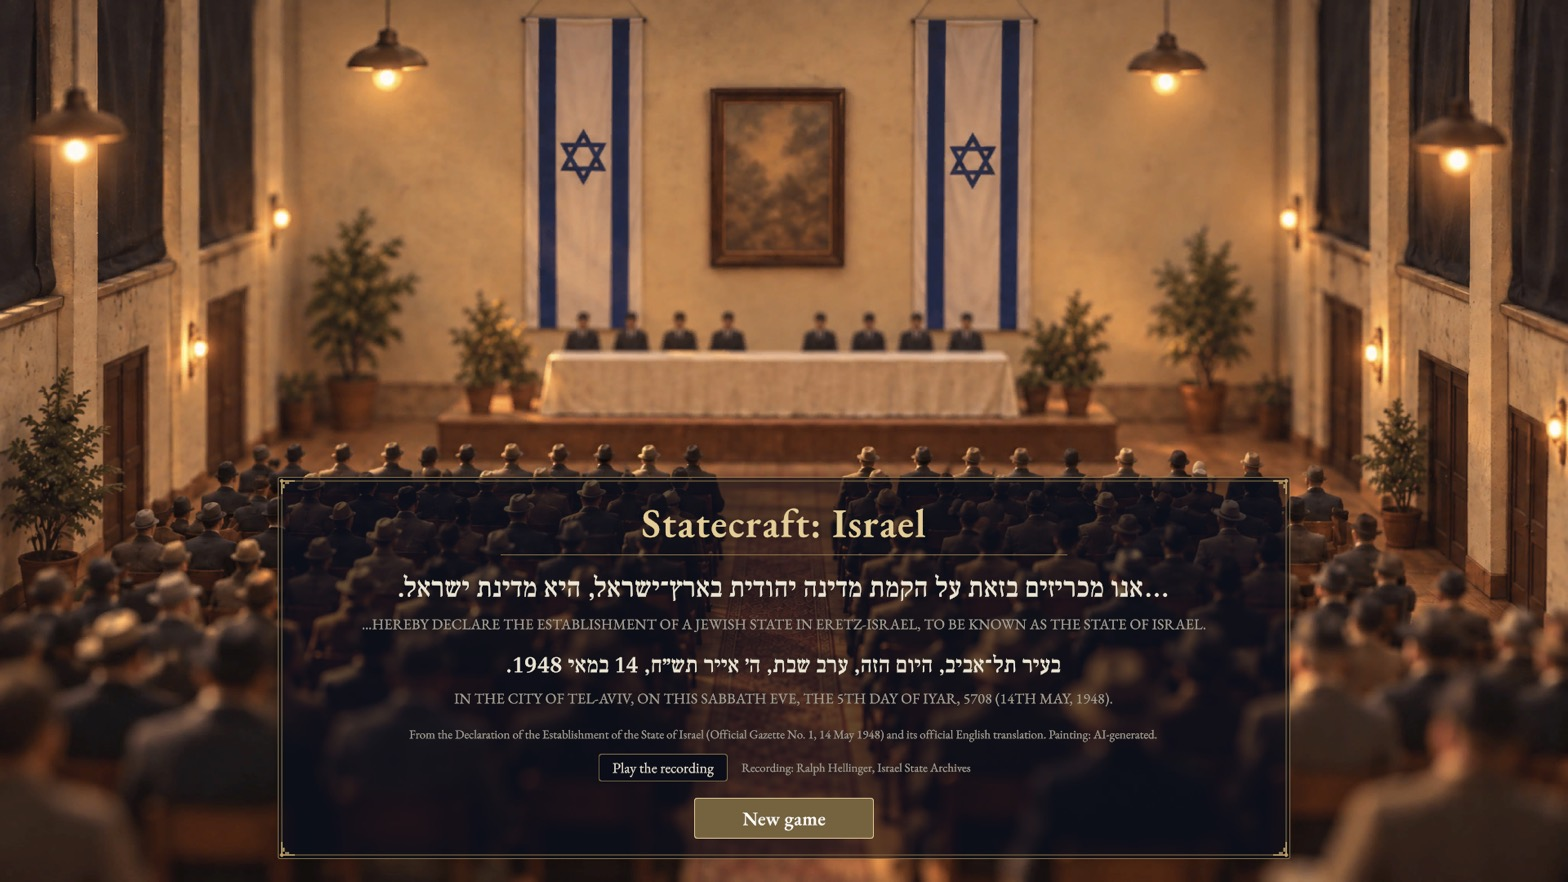
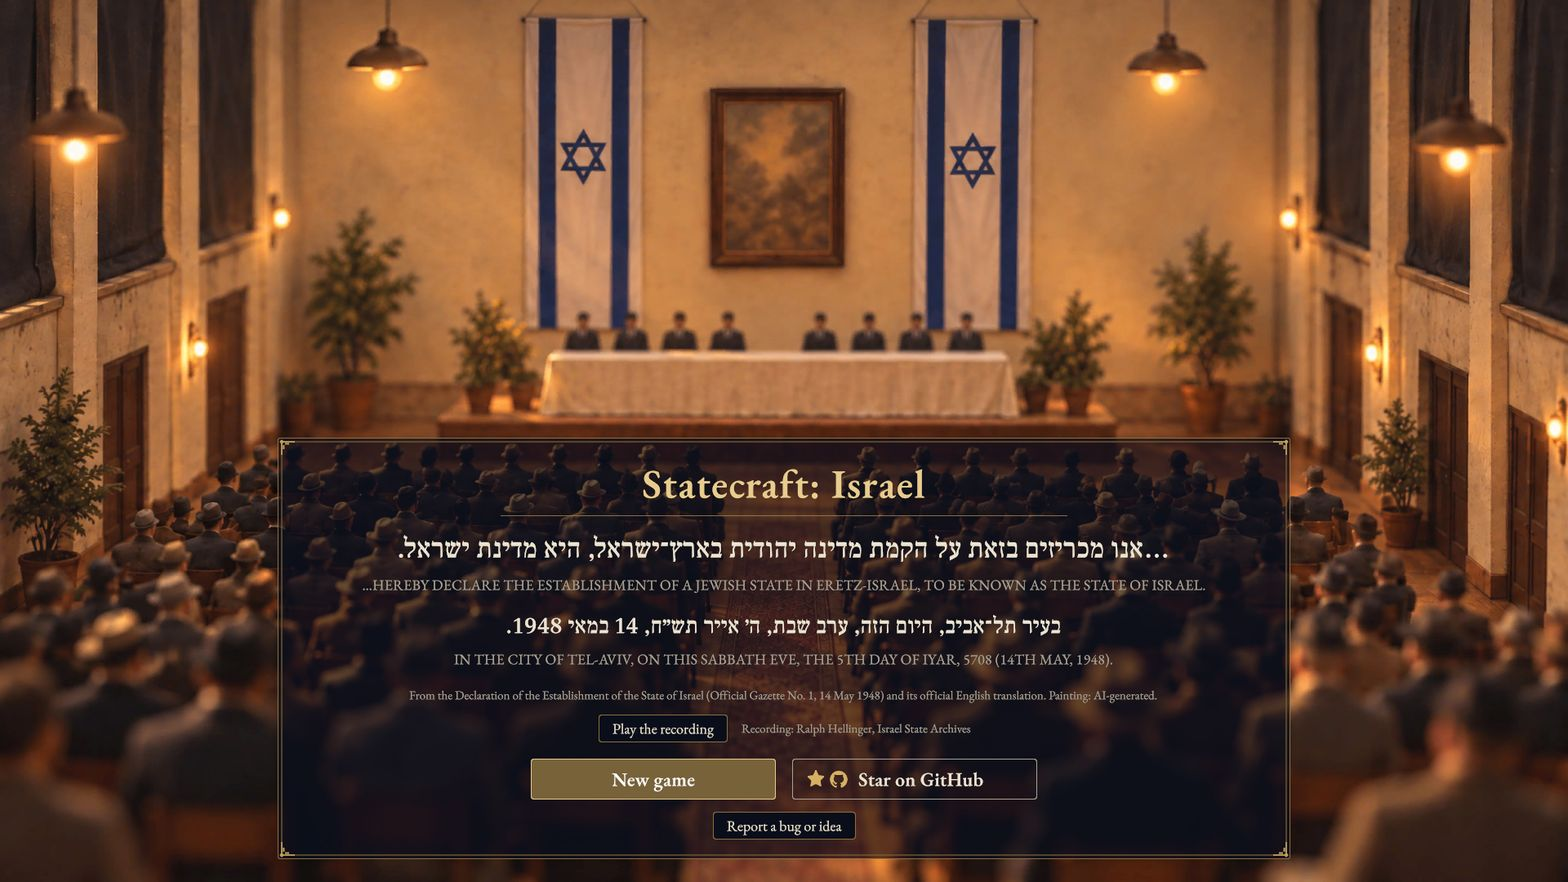
README: screenshots of main 1dca7e0 and the text matches v0.3.1
The owner asked to make sure the README on main and its screenshots are
up to date.

- Screenshots: build-m3-map, -city, -cabinet, -start, -why and build-he-map
  retaken from a WebGL build of main at 1dca7e0 (2026-10-27), same game
  state, camera and zoom as #1200. The start screen changed since 6c54c95
  (Star on GitHub, Report a bug or idea). The gameplay clip is kept: End
  turn now selects units that need orders, so the 8dae186 flow cannot be
  recorded the same way.
- Text: the latest release is v0.3.1 (not a pre-release); the capture
  dialog (Raid and withdraw or Occupy, then Annex or Withdraw) is in; the
  advisors replace the first-turn guide; the war objective is still out;
  Phase 5 is 13 of 18 and Phase 6 7 of 12 closed task issues.

Changed region(s): [[0.1562, 0.4898, 0.8438, 0.9796]]

diff --git a/README.he.md b/README.he.md
@@ -29,7 +29,7 @@ https://github.com/user-attachments/assets/56571db8-446b-444b-8db9-fce57dac53a7
 <img src="docs/images/build-m3-map.jpg" width="820" alt="הגרסה הנוכחית: כרטיס האירוע &quot;צבא אחד&quot; עם צילום ארכיון, מעל מפת החוף, עם הסרגל העליון והמפה הקטנה.">
 <br>
 <img src="docs/images/build-m3-start.jpg" width="405" alt="הגרסה הנוכחית: מסך הפתיחה עם שתי שורות ממגילת העצמאות, על רקע ציור שנוצר בבינה מלאכותית.">
-<img src="docs/images/build-m3-city.jpg" width="405" alt="הגרסה הנוכחית: מבט קרוב על תל אביב, יפו, לוד, רמלה ורחובות, ולוח העיר של תל אביב עם הדיור, התעסוקה והאימון.">
+<img src="docs/images/build-m3-city.jpg" width="405" alt="הגרסה הנוכחית: מבט קרוב על תל אביב, יפו, לוד, פתח תקווה וראשון לציון, ולוח העיר של תל אביב עם הדיור, התעסוקה והאימון.">
 <br>
 <img src="docs/images/build-m3-cabinet.jpg" width="405" alt="הגרסה הנוכחית: מסך הקבינט.">
 <img src="docs/images/build-m3-why.jpg" width="405" alt="הגרסה הנוכחית: לוח 'למה זה קרה?' אחרי התור הראשון.">
@@ -38,7 +38,7 @@ https://github.com/user-attachments/assets/56571db8-446b-444b-8db9-fce57dac53a7
 
 <div dir="rtl">
 
-<p align="center"><em>צילומי מסך אמיתיים, main בקומיט <span dir="ltr">8dae186</span>, 2026-10-20; מסך הפתיחה, שלא השתנה מאז, main בקומיט <span dir="ltr">6c54c95</span>, 2026-10-18. הציור במסך הפתיחה נוצר בבינה מלאכותית.</em></p>
+<p align="center"><em>צילומי מסך אמיתיים, main בקומיט <span dir="ltr">1dca7e0</span>, 2026-10-27. הציור במסך הפתיחה נוצר בבינה מלאכותית.</em></p>
 
 </div>
 
@@ -57,9 +57,9 @@ https://github.com/user-attachments/assets/56571db8-446b-444b-8db9-fce57dac53a7
 
 ## מה המצב היום?
 
-***אב־טיפוס מוקדם: אבן הדרך M3 הושלמה, והשנים 1948 עד 1951 ניתנות למשחק כשבונים מקוד המקור.*** אפשר לשחק בדפדפן ב־[itch.io](https://eyalgolan.itch.io/statecraft-israel). בכל [הפצה](https://github.com/eyalgolan/statecraft-israel/releases) יש קובץ zip של גרסת הדפדפן (האחרונה היא [v0.2.1](https://github.com/eyalgolan/statecraft-israel/releases/tag/v0.2.1), גרסת טרום־הפצה); איך מריצים אותו כתוב ב־[<span dir="ltr">docs/m3-release.md</span>](docs/m3-release.md) (באנגלית). המשחק זמין באנגלית ובעברית, ובהגדרות אפשר לעבור בין השפות; כרטיסי האירועים בעברית עוד ממתינים לבדיקה של דובר עברית. הוראות ההרצה המקומית (באנגלית): [<span dir="ltr">BUILDING.md</span>](BUILDING.md). הבנייה דורשת Unity בגרסה 6000.3.25f1.
+***אב־טיפוס מוקדם: אבן הדרך M3 הושלמה, והשנים 1948 עד 1951 ניתנות למשחק כשבונים מקוד המקור.*** אפשר לשחק בדפדפן ב־[itch.io](https://eyalgolan.itch.io/statecraft-israel). בכל [הפצה](https://github.com/eyalgolan/statecraft-israel/releases) יש קובץ zip של גרסת הדפדפן (האחרונה היא [v0.3.1](https://github.com/eyalgolan/statecraft-israel/releases/tag/v0.3.1)); איך מריצים אותו כתוב ב־[<span dir="ltr">docs/m3-release.md</span>](docs/m3-release.md) (באנגלית). המשחק זמין באנגלית ובעברית, ובהגדרות אפשר לעבור בין השפות; כרטיסי האירועים בעברית עוד ממתינים לבדיקה של דובר עברית. הוראות ההרצה המקומית (באנגלית): [<span dir="ltr">BUILDING.md</span>](BUILDING.md). הבנייה דורשת Unity בגרסה 6000.3.25f1.
 
-מסמך התכנון המחייב הוא עכשיו [<span dir="ltr">docs/GDD.md</span>](docs/GDD.md) (גרסה 0.2, 17 באוקטובר 2026, באנגלית): תורות של חודש, שבהם בונים ומגינים על ישראל בשנים 1948 עד 1951 בעזרת יחידות, ערים ובנייה, ובוחרים שרים. המשחק שאפשר לשחק היום הוא המשחק שמתואר למעלה. התורות החודשיים, תשומת הלב, הערים, האימון, הבנייה בידי החלוצים והפקודות ליחידות, כולל התקפה, כבר בפנים. השליטה ביישובים נכנסה רק בחלקה: היחידות שלכם יכולות לכבוש עיר יעד, אבל הבחירה מה יקרה בה אחר כך עוד לא ניתנת למשחק, ולכן בסוף המשחק כיבוש נחשב לפשיטה ונסיגה (Raid and withdraw). [תוכנית הבנייה](docs/superpowers/specs/2026-10-12-gdd-v0.1-impact-and-plan.md) מכניסה את השאר בשלבים.
+מסמך התכנון המחייב הוא עכשיו [<span dir="ltr">docs/GDD.md</span>](docs/GDD.md) (גרסה 0.2, 17 באוקטובר 2026, באנגלית): תורות של חודש, שבהם בונים ומגינים על ישראל בשנים 1948 עד 1951 בעזרת יחידות, ערים ובנייה, ובוחרים שרים. המשחק שאפשר לשחק היום הוא המשחק שמתואר למעלה. התורות החודשיים, תשומת הלב, הערים, האימון, הבנייה בידי החלוצים והפקודות ליחידות, כולל התקפה, כבר בפנים. השליטה ביישובים נכנסה רק בחלקה: היחידות שלכם יכולות לכבוש עיר יעד, ואז מופיע חלון שמציע פשיטה ונסיגה או שחרור; בסוף תקופת השחרור בוחרים בין סיפוח לנסיגה. [תוכנית הבנייה](docs/superpowers/specs/2026-10-12-gdd-v0.1-impact-and-plan.md) מכניסה את השאר בשלבים.
 
 ## מפת דרכים
 
@@ -89,8 +89,8 @@ flowchart RL
 | 2 | תורות חודשיים במשחק האמיתי, וחמשת המשאבים | בתהליך: הכול מלבד הסרגל העליון של חמשת המשאבים | [#382](https://github.com/eyalgolan/statecraft-israel/issues/382) |
 | 3 | כל הערים, עם דיור, תעסוקה וקליטת עלייה | הושלם: 8 מתוך 8 PRs מוזגו | [#383](https://github.com/eyalgolan/statecraft-israel/issues/383) |
 | 4 | חלוצים, אתרי בנייה, כבישים ומסילות ברזל | בתהליך: 6 מתוך 8 PRs מוזגו | [#384](https://github.com/eyalgolan/statecraft-israel/issues/384) |
-| 5 | יחידות צבאיות, תנועה וקרב | בתהליך: 8 מתוך 18 PRs מוזגו | [#385](https://github.com/eyalgolan/statecraft-israel/issues/385) |
-| 6 | שליטה ביישובים, לפי [מדיניות התוכן](docs/CONTENT_POLICY.md) | בתהליך: 5 מתוך 12 PRs מוזגו | [#386](https://github.com/eyalgolan/statecraft-israel/issues/386) |
+| 5 | יחידות צבאיות, תנועה וקרב | בתהליך: 13 מתוך 18 PRs מוזגו | [#385](https://github.com/eyalgolan/statecraft-israel/issues/385) |
+| 6 | שליטה ביישובים, לפי [מדיניות התוכן](docs/CONTENT_POLICY.md) | בתהליך: 7 מתוך 12 PRs מוזגו | [#386](https://github.com/eyalgolan/statecraft-israel/issues/386) |
 | 7 | שרים, אירועים והמשחק המלא בן 44 תורות | בתהליך: 5 מתוך 13 PRs מוזגו | [#387](https://github.com/eyalgolan/statecraft-israel/issues/387) |
 
 ### מסלולים נוספים

diff --git a/README.md b/README.md
@@ -40,7 +40,7 @@ You sit in the prime minister's chair from the founding of the state. Each turn 
 
 A deterministic C# simulation runs underneath. The same choices always give the same result, and a saved game is the seed plus the list of commands. Unity draws a real terrain map of the country built from elevation and climate data.
 
-The game design of record is now [docs/GDD.md](docs/GDD.md) (v0.2, 17 October 2026): monthly turns in which you build and defend Israel from 1948 to 1951 with units, cities and construction, and choose your ministers. The list above is the game you can play today. The monthly turns, Attention, the cities, training, the pioneers' building and the unit orders, attacks included, are in. Settlement control is only partly in: your units can capture a target town, but choosing what happens to it is not playable yet, so a capture counts as Raid and withdraw at the end of the game. The [build plan](docs/superpowers/specs/2026-10-12-gdd-v0.1-impact-and-plan.md) brings the rest in phases.
+The game design of record is now [docs/GDD.md](docs/GDD.md) (v0.2, 17 October 2026): monthly turns in which you build and defend Israel from 1948 to 1951 with units, cities and construction, and choose your ministers. The list above is the game you can play today. The monthly turns, Attention, the cities, training, the pioneers' building and the unit orders, attacks included, are in. Settlement control is only partly in: your units can capture a target town, and a dialog then offers Raid and withdraw or Occupy; when an occupation ends, you choose Annex or Withdraw. The [build plan](docs/superpowers/specs/2026-10-12-gdd-v0.1-impact-and-plan.md) brings the rest in phases.
 
 ## What it looks like today
 
@@ -53,11 +53,11 @@ The game design of record is now [docs/GDD.md](docs/GDD.md) (v0.2, 17 October 20
 </p>
 <p align="center">
   <img src="docs/images/build-m3-start.jpg" alt="Current build: the start screen, two lines of the Declaration of Independence in Hebrew and English and the New game button, over an AI-generated painting of the 14 May 1948 ceremony" width="405">
-  <img src="docs/images/build-m3-city.jpg" alt="Current build: a closer look at Tel Aviv, Jaffa, Lydda, Ramle and Rehovot, with groves, railways, roads and the front lines, and Tel Aviv's city panel with its housing, jobs and training" width="405">
+  <img src="docs/images/build-m3-city.jpg" alt="Current build: a closer look at Tel Aviv, Jaffa, Lydda, Petah Tikva and Rishon LeZion, with groves, railways, roads and the front lines, and Tel Aviv's city panel with its housing, jobs and training" width="405">
   <br>
   <img src="docs/images/build-m3-cabinet.jpg" alt="Current build: the Cabinet screen with the Provisional State Council as a half circle of seats and the ministers' portrait cards" width="405">
   <img src="docs/images/build-m3-why.jpg" alt="Current build: the Why panel after the first turn, listing each change and its cause" width="405">
-  <br><em>Real screenshots, main at 8dae186, 2026-10-20; the start screen, unchanged since, main at 6c54c95, 2026-10-18. The start screen's painting is AI-generated.</em>
+  <br><em>Real screenshots, main at 1dca7e0, 2026-10-27. The start screen's painting is AI-generated.</em>
 </p>
 
 ## Is this any good?
@@ -76,7 +76,7 @@ It is an early, honest prototype.
 - The Budget screen.
 - The Defence screen, which shows the escalation ladder and the reserve call-up as the events set them.
 - Sourced historical events from the 1948 war through the 1951 foreign-currency crisis, most with an archival photograph.
-- The "Why?" panel, a turn report after End turn, a short How to play screen and a six-step first-turn guide.
+- The "Why?" panel, a turn report after End turn, a short How to play screen, and the advisors David Ben-Gurion, Golda Meyerson and Moshe Dayan, who walk you through the first turn.
 - A Timeline screen that sets your course beside the historical record.
 - An end screen with the outcome, the score and the date you met each objective beside the historical date.
 - Share: a screenshot of your game for X, Facebook, Instagram, WhatsApp, Telegram or LinkedIn.
@@ -85,7 +85,7 @@ It is an early, honest prototype.
 
 **What is missing:**
 - The art in the concept image above. Settlements and trees are still placeholder art.
-- Most of the [GDD](docs/GDD.md): choosing what happens to a captured town, and the war objective.
+- Most of the [GDD](docs/GDD.md): the war objective, and the rest of settlement control.
 - Diplomacy.
 - Anything after 1951.
 
@@ -117,8 +117,8 @@ flowchart LR
 | 2 | Monthly turns for the real game, and the five resources | In progress: all but the top bar for the five resources | [#382](https://github.com/eyalgolan/statecraft-israel/issues/382) |
 | 3 | Every city, with housing, jobs and immigrant absorption | Done: 8 of 8 PRs merged | [#383](https://github.com/eyalgolan/statecraft-israel/issues/383) |
 | 4 | Pioneers, building sites, roads and railways | In progress: 6 of 8 PRs merged | [#384](https://github.com/eyalgolan/statecraft-israel/issues/384) |
-| 5 | Military units, movement and combat | In progress: 8 of 18 PRs merged | [#385](https://github.com/eyalgolan/statecraft-israel/issues/385) |
-| 6 | Settlement control, under [docs/CONTENT_POLICY.md](docs/CONTENT_POLICY.md) | In progress: 5 of 12 PRs merged | [#386](https://github.com/eyalgolan/statecraft-israel/issues/386) |
+| 5 | Military units, movement and combat | In progress: 13 of 18 PRs merged | [#385](https://github.com/eyalgolan/statecraft-israel/issues/385) |
+| 6 | Settlement control, under [docs/CONTENT_POLICY.md](docs/CONTENT_POLICY.md) | In progress: 7 of 12 PRs merged | [#386](https://github.com/eyalgolan/statecraft-israel/issues/386) |
 | 7 | Ministers, events and the full 44-turn game | In progress: 5 of 13 PRs merged | [#387](https://github.com/eyalgolan/statecraft-israel/issues/387) |
 
 ### Other tracks
@@ -132,7 +132,7 @@ flowchart LR
 
 <iframe frameborder="0" src="https://itch.io/embed/5179460" width="552" height="167"><a href="https://eyalgolan.itch.io/statecraft-israel">Statecraft: Israel by eyalgolan</a></iframe>
 
-Play it in your browser on [itch.io](https://eyalgolan.itch.io/statecraft-israel). Each [release](https://github.com/eyalgolan/statecraft-israel/releases) (the latest is [v0.2.1](https://github.com/eyalgolan/statecraft-israel/releases/tag/v0.2.1), a pre-release) has the browser build as a zip; [docs/m3-release.md](docs/m3-release.md) says how to serve it. To build and run it locally:
+Play it in your browser on [itch.io](https://eyalgolan.itch.io/statecraft-israel). Each [release](https://github.com/eyalgolan/statecraft-israel/releases) (the latest is [v0.3.1](https://github.com/eyalgolan/statecraft-israel/releases/tag/v0.3.1)) has the browser build as a zip; [docs/m3-release.md](docs/m3-release.md) says how to serve it. To build and run it locally:
 
 1. Install the tools in [docs/dev-setup.md](docs/dev-setup.md): .NET 10, Unity 6000.3.25f1 with Web Build Support, and `uv`.
 2. Run `uv run tools/build_sim_for_unity.py`.
